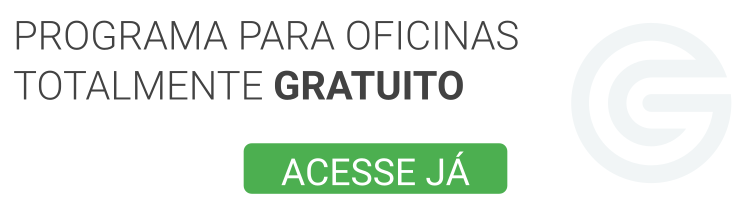
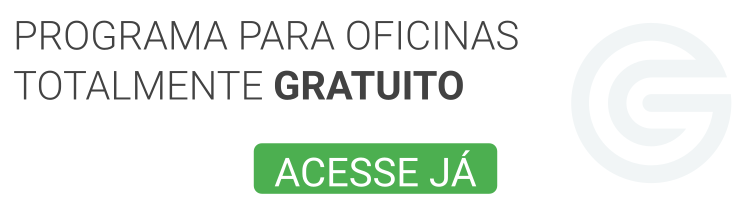
Chamadas para ação

Changed region(s): [[0.3675, 0.7164, 0.6738, 0.9851], [0.3063, 0.7164, 0.3675, 0.9552]]

diff --git a/_posts/2019-08-29-oficinas-mecanicas-5-maneiras-de-atender-melhor-o-seu-cliente.md b/_posts/2019-08-29-oficinas-mecanicas-5-maneiras-de-atender-melhor-o-seu-cliente.md
@@ -30,6 +30,10 @@ Caso os mecânicos sejam os responsáveis pelo atendimento, selecione um que pos
 
 Não há nada mais desagradável que chegar em um lugar e ser mal atendido. Faça sua oficina ser referência em atendimento ao cliente.
 
+<a href="http://app.griffooficinas.com.br" target="_blank">
+![Programa para oficinas totalmente gratuito](../img/programa-oficinas-gratis.png)
+</a>
+
 ## 3. Uma equipe qualificada irá enfrentar qualquer desafio
 Tenha uma equipe qualificada que consiga resolver os problemas dos clientes sem realizar gambiarras que prejudiquem ainda mais os veículos. Há um excesso de serviços realizados extremamente desleixados no mercado, que acabam queimando a imagem da oficina.
 
@@ -51,6 +55,6 @@ Essas foram algumas dicas que são simples, mas que são extremamente poderosas 
 
 Até mais.
 
-<a href="http://app.griffooficinas.com.br">
+<a href="http://app.griffooficinas.com.br" target="_blank">
 ![Programa para oficinas totalmente gratuito](../img/programa-oficinas-gratis.png)
 </a>
